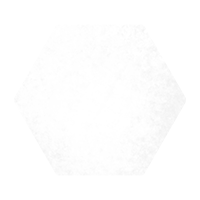
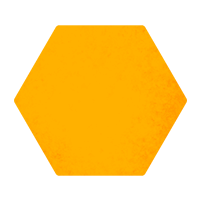
some emprovements

diff --git a/src/app/result/result.page.html b/src/app/result/result.page.html
@@ -44,9 +44,36 @@
               </ion-col>
             </ion-row>
           </ion-grid>
+
+          <ng-container *ngIf="bag.revealRemains">
+            <h2 class="extracted-label">
+              NON ESTRATTI
+            </h2>
+  
+            <ion-grid class="ion-padding-horizontal tokens">
+              <ion-row class="ion-justify-content-center">
+                <ion-col size="3" class="extracted-token" [class.first-token]="true">
+                  <span class="remain-number">
+                    <ion-text color="dark">
+                      {{WhiteRemain}}
+                    </ion-text>
+                  </span>
+                  <img src="../../assets/TokenBiancoPiccolo.png">
+                </ion-col>
+                <ion-col size="3" class="extracted-token" [class.last-token]="true">
+                  <span class="remain-number">
+                    <ion-text color="light">
+                      {{BlackRemain}}
+                    </ion-text>
+                  </span>
+                  <img src="../../assets/TokenNeroPiccolo.png">
+                </ion-col>
+              </ion-row>
+            </ion-grid>
+          </ng-container>
         
           <ng-template #risktemp>
-            <ion-grid class="ion-margin-bottom">
+            <ion-grid class="ion-margin-bottom" *ngIf="!bag.revealRemains">
               <ion-row class="ion-justify-content-center">
                 <ion-col>
                   <ion-button class="big-button grey" fill="outline" *ngIf="bag.isExtracteable" (click)="Risk()">
@@ -58,6 +85,13 @@
           </ng-template>
         
           <ion-grid class="ion-margin-top">
+            <ion-row class="ion-justify-content-center ion-margin" *ngIf="!bag.revealRemains">
+              <ion-col style="padding: 4px;">
+                <ion-button expand="block" fill="outline" class="big-button grey" (click)="revealTokens()">
+                  Rivela Sacchetto
+                </ion-button>
+              </ion-col>
+            </ion-row>
             <ion-row class="ion-justify-content-center">
               <ion-col size="6" style="padding: 4px;">
                 <ion-button expand="block" fill="outline" class="big-button grey" (click)="ShareResult()">

diff --git a/src/app/home/home.page.html b/src/app/home/home.page.html
@@ -54,7 +54,7 @@
           <ion-grid id="white-tokens">
             <ion-row class="ion-align-items-center">
               <ion-col size="3" class="ion-text-center">
-                <ion-fab-button color="ligth" size="small" (click)="decrement(0)">
+                <ion-fab-button color="secondary" size="small" (click)="decrement(0)">
                   <ion-icon name="remove"></ion-icon>
                 </ion-fab-button>
               </ion-col>
@@ -63,7 +63,7 @@
                 <ion-input class="token-number bianco" inputmode="numeric" [(ngModel)]="whiteToExtract"></ion-input>
               </ion-col>
               <ion-col size="3" class="ion-text-center">
-                <ion-fab-button color="ligth" size="small" (click)="increment(0)">
+                <ion-fab-button color="secondary" size="small" (click)="increment(0)">
                   <ion-icon name="add"></ion-icon>
                 </ion-fab-button>
               </ion-col>
@@ -90,7 +90,7 @@
           <ion-grid id="black-tokens">
             <ion-row class="ion-align-items-center">
               <ion-col size="3" class="ion-text-center">
-                <ion-fab-button color="dark" size="small" (click)="decrement(1)">
+                <ion-fab-button color="tertiary" size="small" (click)="decrement(1)">
                   <ion-icon name="remove"></ion-icon>
                 </ion-fab-button>
               </ion-col>
@@ -99,7 +99,7 @@
                 <ion-input class="token-number nero" inputmode="numeric" [(ngModel)]="blackToExtract"></ion-input>
               </ion-col>
               <ion-col size="3" class="ion-text-center">
-                <ion-fab-button color="dark" size="small" (click)="increment(1)">
+                <ion-fab-button color="tertiary" size="small" (click)="increment(1)">
                   <ion-icon name="add"></ion-icon>
                 </ion-fab-button>
               </ion-col>

diff --git a/src/theme/variables.scss b/src/theme/variables.scss
@@ -4,28 +4,28 @@
 /** Ionic CSS Variables **/
 :root {
   /** primary **/
-  --ion-color-primary: #35582A;
-  --ion-color-primary-rgb: 53,88,42;
+  --ion-color-primary: #2E2E2E;
+  --ion-color-primary-rgb: 46,46,46;
   --ion-color-primary-contrast: #ffffff;
   --ion-color-primary-contrast-rgb: 255,255,255;
-  --ion-color-primary-shade: #2f4d25;
-  --ion-color-primary-tint: #49693f;
+  --ion-color-primary-shade: #282828;
+  --ion-color-primary-tint: #434343;
 
   /** secondary **/
-  --ion-color-secondary: #3dc2ff;
-  --ion-color-secondary-rgb: 61, 194, 255;
-  --ion-color-secondary-contrast: #ffffff;
-  --ion-color-secondary-contrast-rgb: 255, 255, 255;
-  --ion-color-secondary-shade: #36abe0;
-  --ion-color-secondary-tint: #50c8ff;
+  --ion-color-secondary: #FFB100;
+  --ion-color-secondary-rgb: 255,177,0;
+  --ion-color-secondary-contrast: #000000;
+  --ion-color-secondary-contrast-rgb: 0,0,0;
+  --ion-color-secondary-shade: #e09c00;
+  --ion-color-secondary-tint: #ffb91a;
 
   /** tertiary **/
-  --ion-color-tertiary: #5260ff;
-  --ion-color-tertiary-rgb: 82, 96, 255;
+  --ion-color-tertiary: #A43DAC;
+  --ion-color-tertiary-rgb: 164,61,172;
   --ion-color-tertiary-contrast: #ffffff;
-  --ion-color-tertiary-contrast-rgb: 255, 255, 255;
-  --ion-color-tertiary-shade: #4854e0;
-  --ion-color-tertiary-tint: #6370ff;
+  --ion-color-tertiary-contrast-rgb: 255,255,255;
+  --ion-color-tertiary-shade: #903697;
+  --ion-color-tertiary-tint: #ad50b4;
 
   /** success **/
   --ion-color-success: #2dd36f;

diff --git a/src/app/result/result.page.ts b/src/app/result/result.page.ts
@@ -60,6 +60,18 @@ export class ResultPage {
     });
   }
 
+  revealTokens(){
+    this.bag.revealRemains = true;
+  }
+
+  get BlackRemain(){
+    return this.bag.Tokens.filter((t)=>t.Color==Tokencolor.Black).length
+  }
+
+  get WhiteRemain(){
+    return this.bag.Tokens.filter((t)=>t.Color==Tokencolor.White).length
+  }
+
   toHexString(byteArray) {
     return Array.prototype.map.call(byteArray, function(byte) {
       return ('0' + (byte & 0xFF).toString(16)).slice(-2);

diff --git a/src/app/bag.ts b/src/app/bag.ts
@@ -15,6 +15,8 @@ export class Bag {
 
     yetExtrctedRisk:Boolean=false;
 
+    revealRemains :Boolean=false;
+
     constructor(
         bag:{
             Tokens:Array<Token>,
@@ -78,6 +80,7 @@ export class Bag {
         this.yetInserted=false;
         this.yetExtracted=false;
         this.yetExtrctedRisk=false;
+        this.revealRemains=false;
     }
 
     private shuffle(a) {

diff --git a/src/app/result/result.page.scss b/src/app/result/result.page.scss
@@ -71,3 +71,11 @@ ion-item{
 .grey{
     --border-color: var(--ion-color-medium);
 }
+
+.remain-number {
+    position: absolute;
+    top: 50%;
+    left: 50%;
+    z-index: 999;
+    transform: translate(-50%, -50%);
+}
